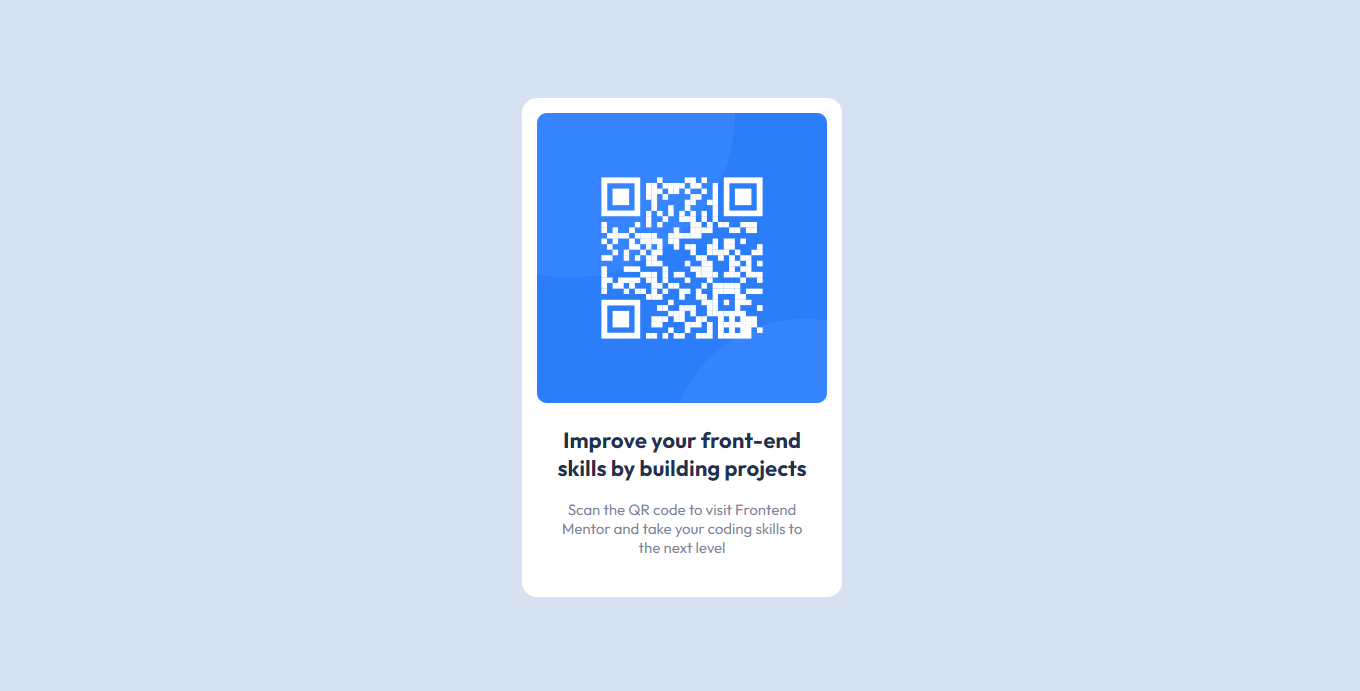
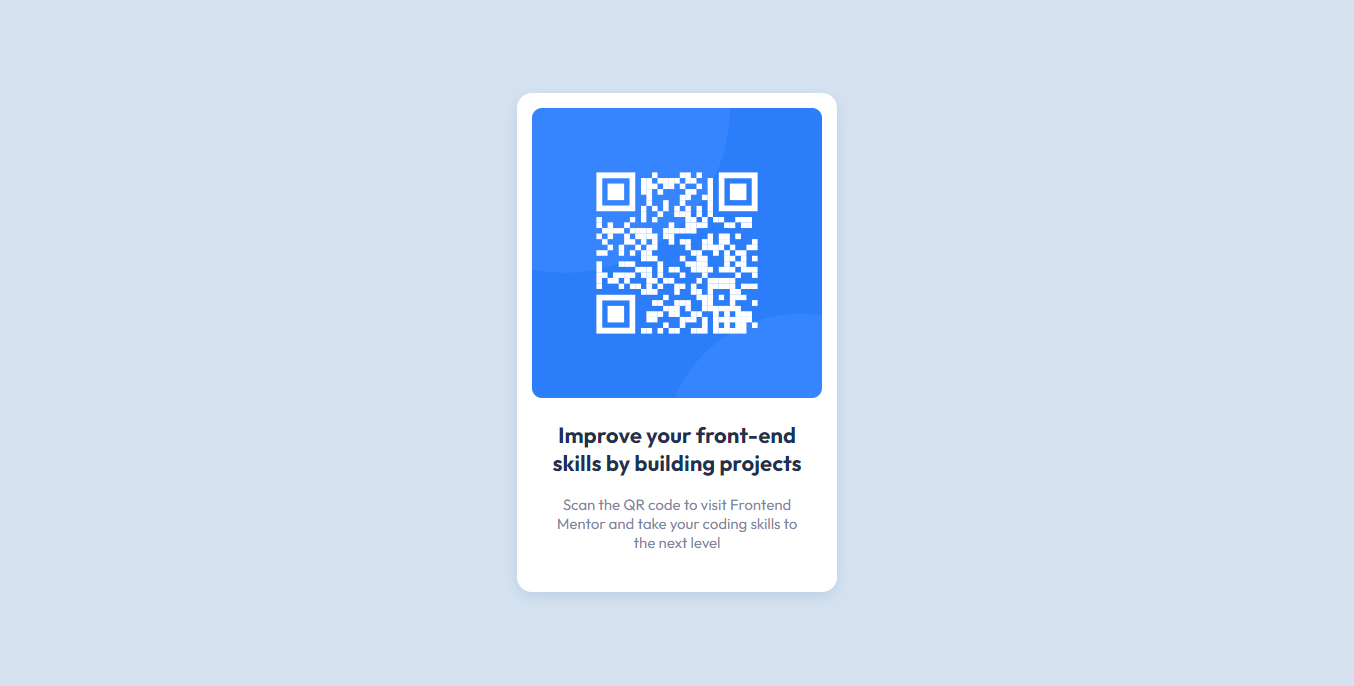
Added shadow.

diff --git a/style.css b/style.css
@@ -9,6 +9,7 @@
     --light-gray: hsl(212, 45%, 89%);
     --grayish-blue: hsl(220, 15%, 55%);
     --dark-blue: hsl(218, 44%, 22%);
+    --box-shadow: hsl(212, 45%, 82%);
 }
 
 /****** Layout-structure ******/
@@ -28,6 +29,7 @@ main {
     max-width: 320px;
     background-color: var(--white);
     border-radius: 0.938rem;
+    box-shadow: 0 0.3rem 1rem var(--box-shadow);
 }
 
 /****** QR-code-styling ******/
